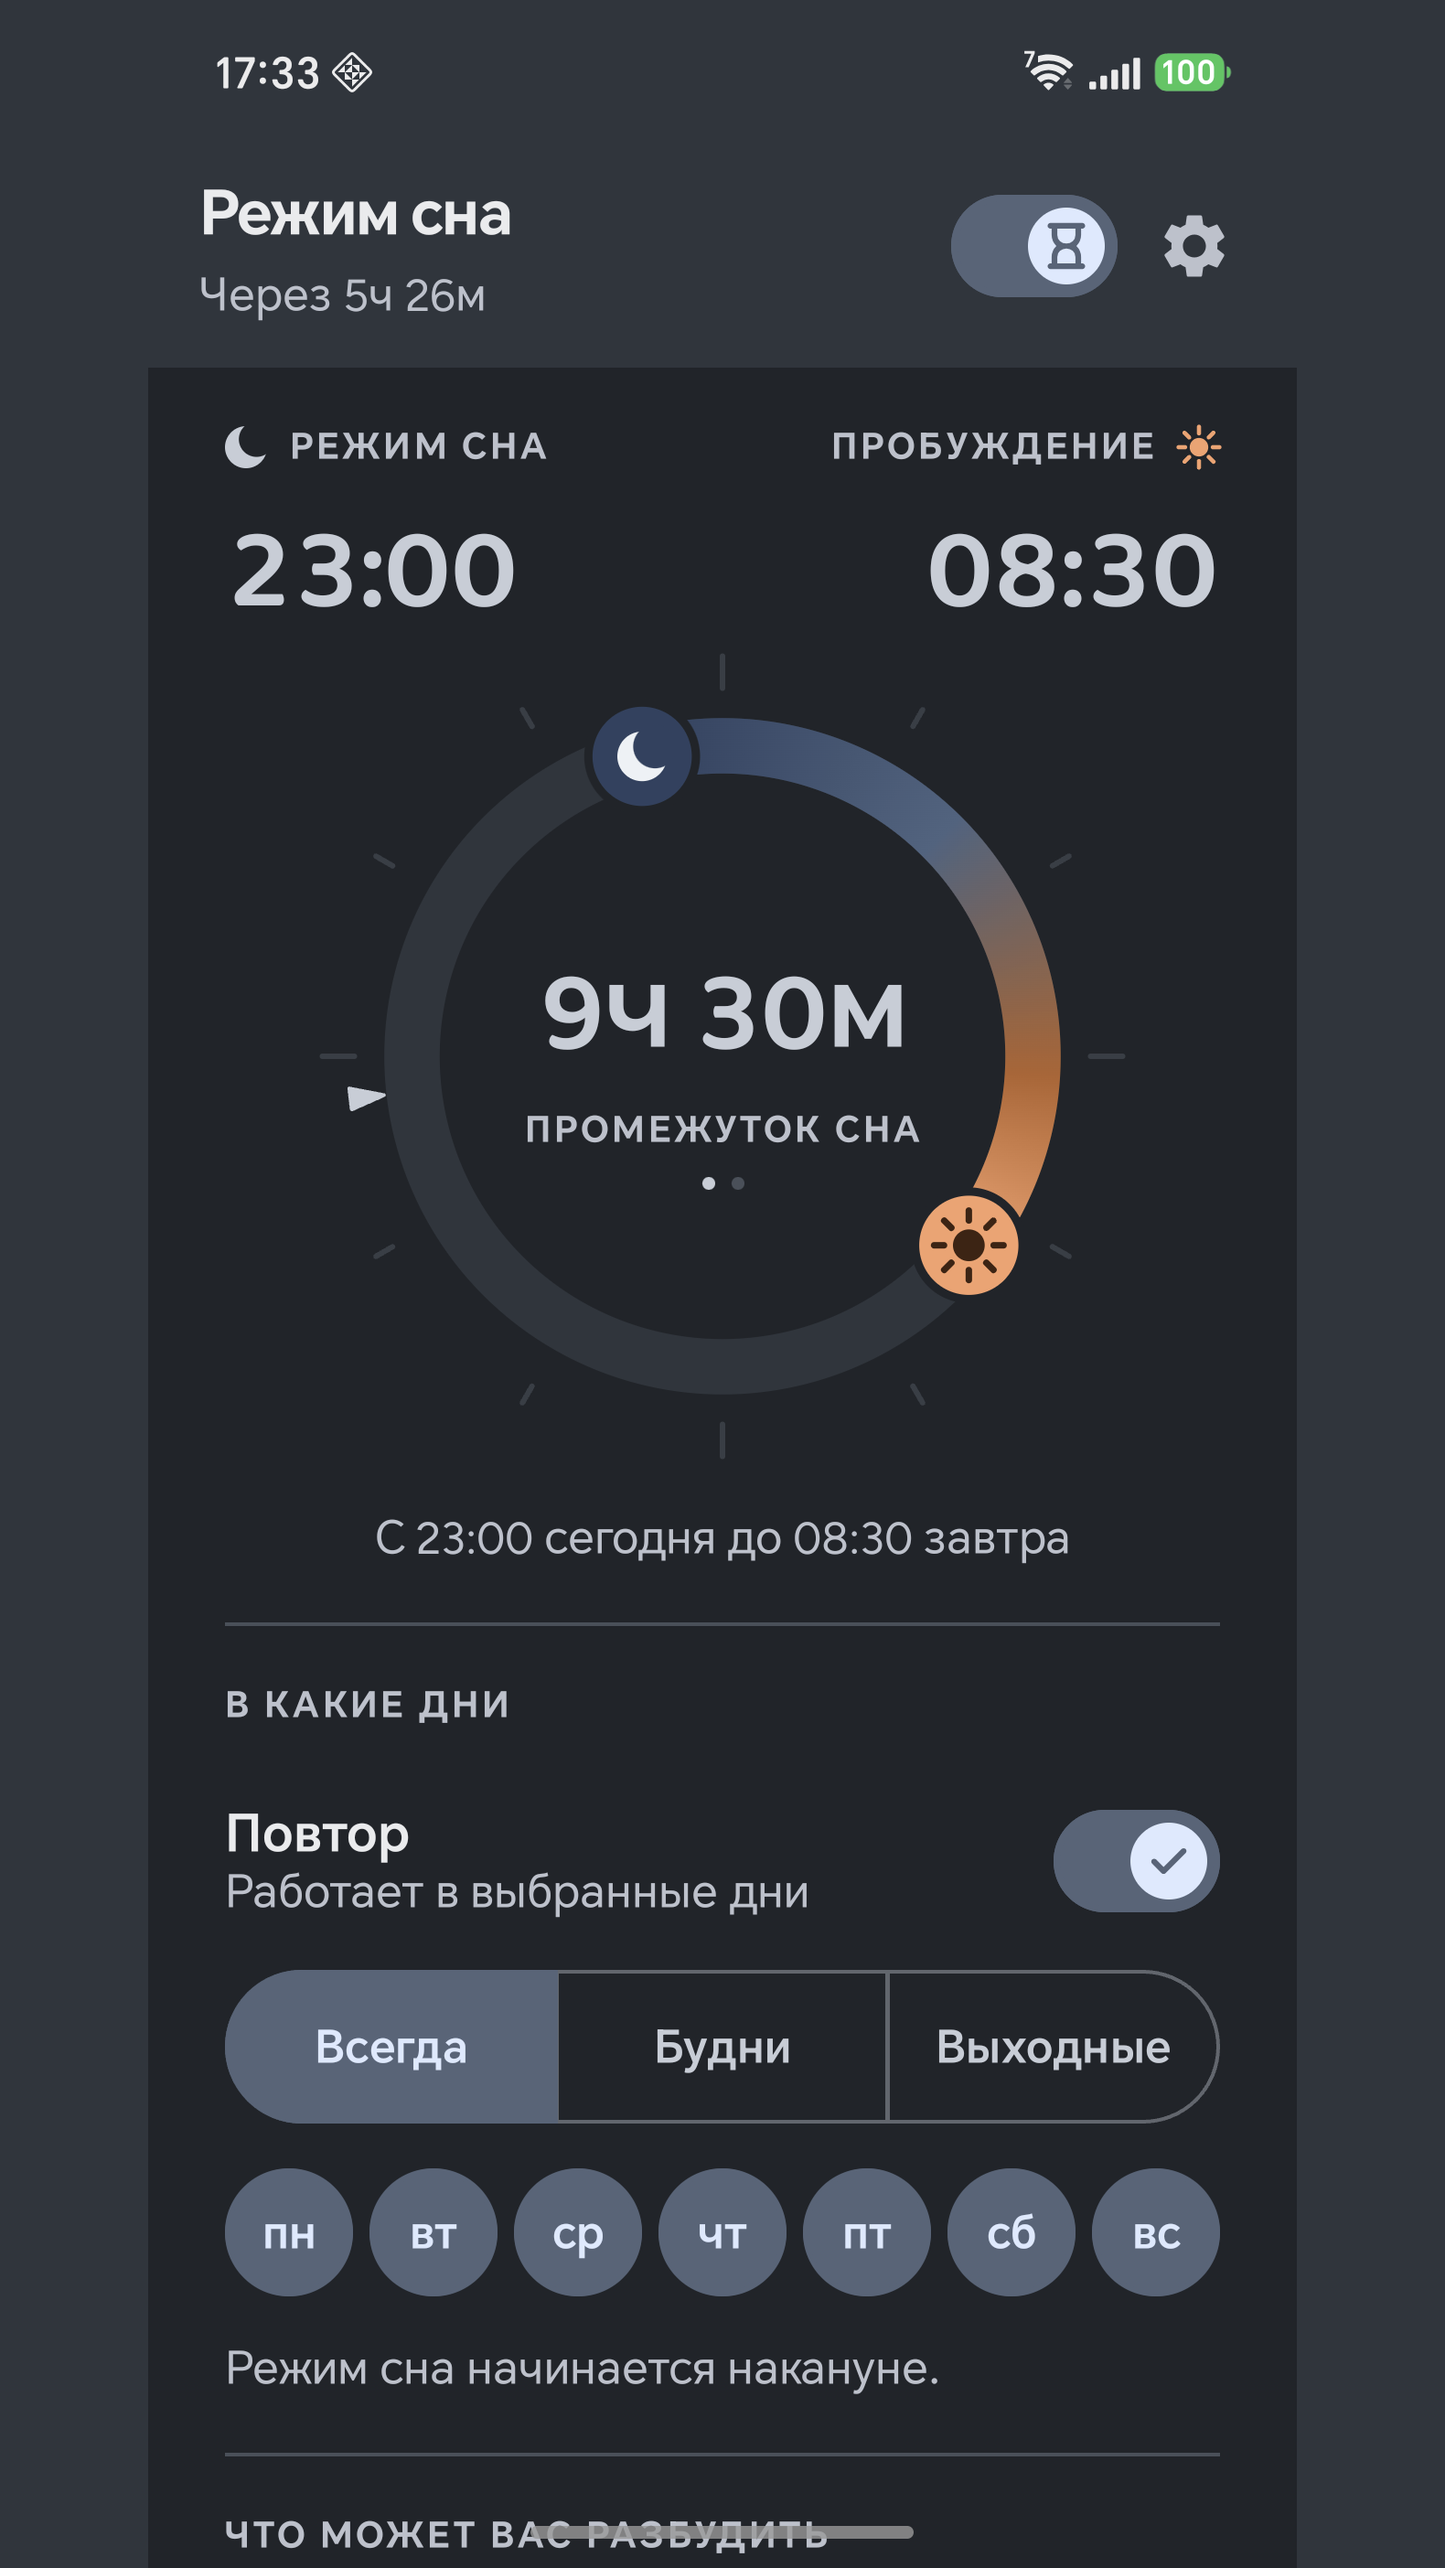
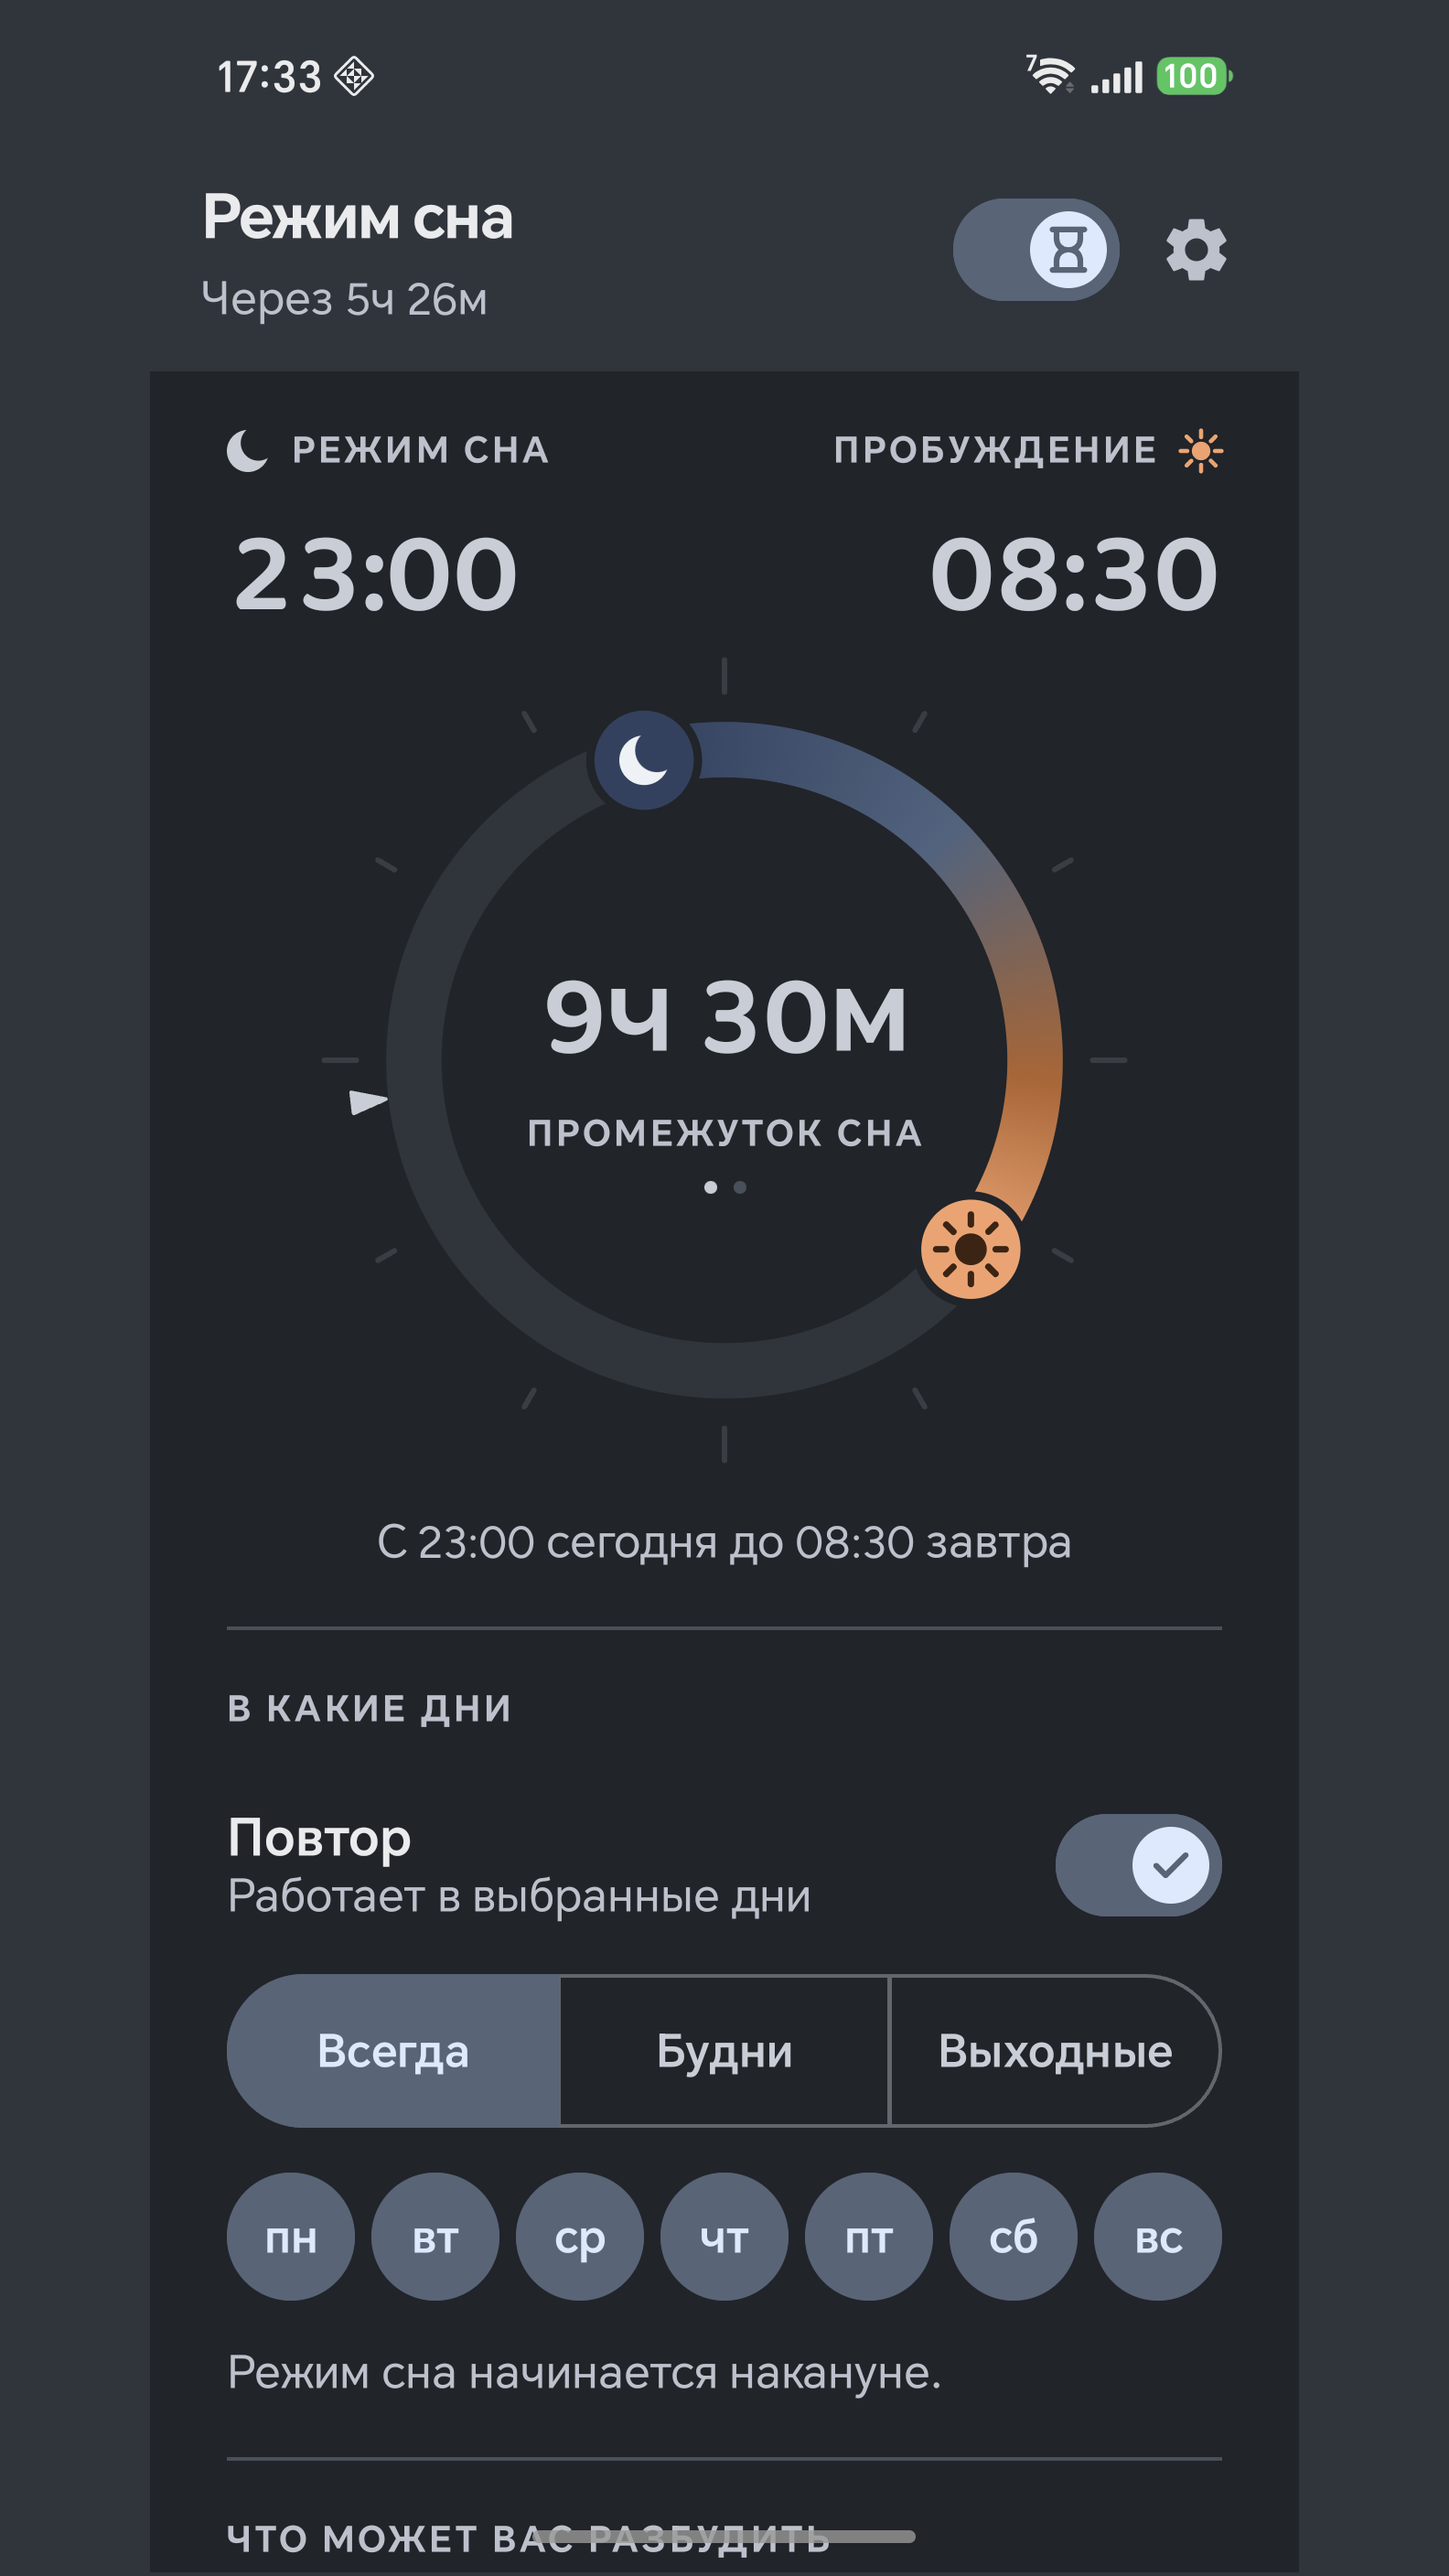
Pad the Play screenshots to a real 9:16 rather than cropping them
Play enforces 16:9 or 9:16 for phone screenshots. It is not the guidance
this repo recorded it as: the captioned shots are 1256x3108, which is
1:2.47, and the Console refuses them with "needs cropping" - and cropping
a phone screenshot to that ratio means losing either the caption band or
the top of the screen.

Padding the SIDES costs nothing. The canvas is now the smallest exact
9:16 that holds the shot plus its band, snapped to a multiple of 9 so the
height is integral rather than 0.5624 - a checked ratio is still not 9:16
if it rounds. 1755x3120 captioned, 1584x2816 plain, every side inside
320-3840 and both over 1080, which is also the bar for promotion
eligibility.

The margins land in the same Dusk colour as the band, so the set reads as
framed rather than as something that failed to fill the canvas.

diff --git a/tools/play_assets.py b/tools/play_assets.py
@@ -205,7 +205,26 @@ CAPTIONS = {
     ],
 }
 
-BAND = 300          # caption band height, px
+BAND = 300          # caption band MINIMUM height, px - the real one is whatever
+                    # the 9:16 canvas leaves above the screenshot
+
+
+def nine_by_sixteen(w, h, extra=0):
+    """The smallest EXACT 9:16 canvas holding a w x h shot plus `extra` height.
+
+    Play's phone screenshots are 16:9 or 9:16 and it enforces it - a 1256x3108
+    captioned shot is 1:2.47 and comes back "needs cropping", which for a phone
+    screenshot means losing either the caption or the top of the screen. Padding
+    the SIDES costs nothing instead: the shot keeps every pixel and the margins
+    read as a deliberate frame in the same colour as the band.
+
+    Snapped to a multiple of 9 so the height is exact rather than 0.5624 - the
+    ratio is checked, and a rounding error is still not 9:16.
+    """
+    need = h + extra
+    width = max(w, -(-need * 9 // 16))
+    width = -(-width // 9) * 9
+    return width, width * 16 // 9
 CAP_SIZE = 52
 
 
@@ -248,25 +267,28 @@ def build_screenshots():
             w, h = im.size
 
             # A Dusk band above the shot, the same band on all five so they read
-            # as one set rather than following each screenshot's own theme.
-            out = Image.new('RGB', (w, h + BAND), hx(SURFACE))
-            out.paste(im, (0, BAND))
+            # as one set rather than following each screenshot's own theme. The
+            # canvas is a true 9:16, so the band is whatever height is left over
+            # once the shot is placed - never less than BAND.
+            cw, ch = nine_by_sixteen(w, h, BAND)
+            band = ch - h
+            out = Image.new('RGB', (cw, ch), hx(SURFACE))
+            out.paste(im, ((cw - w) // 2, band))
             d = ImageDraw.Draw(out)
-            lines = _wrap(d, caption, font, w - 160)
+            lines = _wrap(d, caption, font, cw - 260)
             lh = CAP_SIZE * 1.32
-            y = (BAND - lh * len(lines)) / 2
+            y = (band - lh * len(lines)) / 2
             for ln in lines:
-                d.text(((w - d.textlength(ln, font=font)) / 2, y), ln,
+                d.text(((cw - d.textlength(ln, font=font)) / 2, y), ln,
                        font=font, fill=hx(ON_SURFACE))
                 y += lh
             out.save(os.path.join(cap_dir, f'{i}.png'))
 
-            # Plain, padded to 9:16 from each capture's own corner color, so a
-            # Dusk shot pads dark and a Dawn shot pads light.
-            want = int(round(h * 9 / 16))
-            pl = im if want <= w else Image.new('RGB', (want, h), im.getpixel((0, 0)))
-            if want > w:
-                pl.paste(im, ((want - w) // 2, 0))
+            # Plain, padded to an exact 9:16 from each capture's own corner
+            # colour, so a Dusk shot pads dark and a Dawn shot pads light.
+            pw, ph = nine_by_sixteen(w, h)
+            pl = Image.new('RGB', (pw, ph), im.getpixel((0, 0)))
+            pl.paste(im, ((pw - w) // 2, (ph - h) // 2))
             pl.save(os.path.join(plain_dir, f'{i}.png'))
         print(f'  {lang}: 5 captioned + 5 plain')
 

diff --git a/CLAUDE.md b/CLAUDE.md
@@ -416,12 +416,17 @@ is in DECISIONS.md.
     python3 tools/play_assets.py        the Play store assets into docs/play/.
                          Play refuses what the README needs: an alpha channel on
                          the icon. Same geometry, `mask=False`, and Play applies
-                         its own corner mask. Screenshots come out TWICE -
-                         captioned at the phone's own aspect, and plain padded
-                         to 9:16 - because Play's hard rule is only 320-3840px
-                         per side and the 9:16 figure is guidance. Neither set
-                         crops: the README's framing is what the app looks like,
-                         and cropping to fit a store makes the two disagree.
+                         its own corner mask. Screenshots come out TWICE, both
+                         at an EXACT 9:16 - Play enforces the ratio, it is not
+                         guidance: a 1256x3108 captioned shot is 1:2.47 and the
+                         Console answers "needs cropping", which on a phone
+                         screenshot means losing the caption or the top of the
+                         screen. Padding the SIDES costs nothing, so the canvas
+                         is the smallest exact 9:16 that holds the shot, snapped
+                         to a multiple of 9 so the height is integral - 1755x3120
+                         captioned, 1584x2816 plain. Neither set crops: the
+                         README's framing is what the app looks like, and
+                         cropping to fit a store makes the two disagree.
                          No device frames - a bezel encodes nothing true and
                          costs pixels these screens need. A set PER LANGUAGE
                          into `<lang>/`, captions and all: Play carries one per
